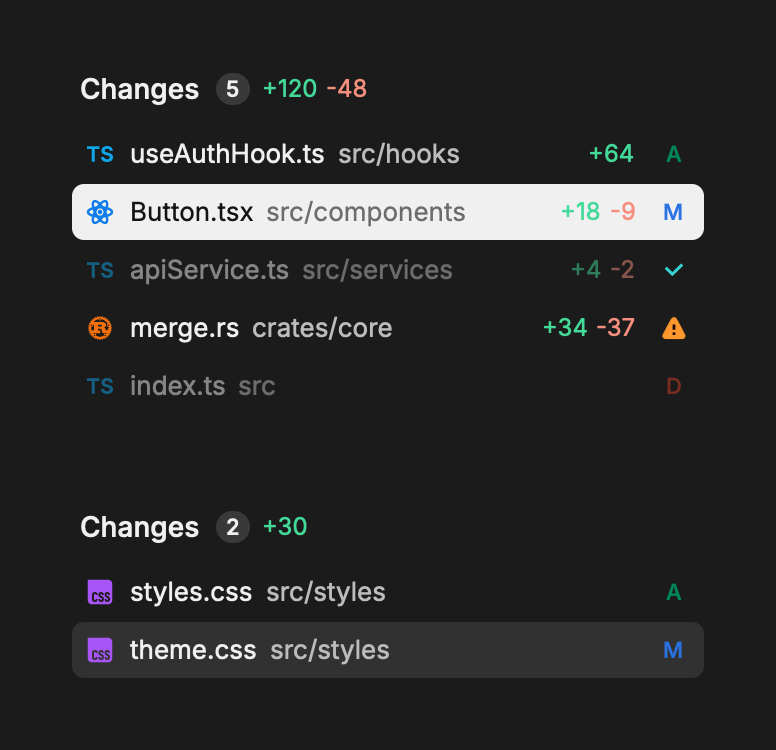
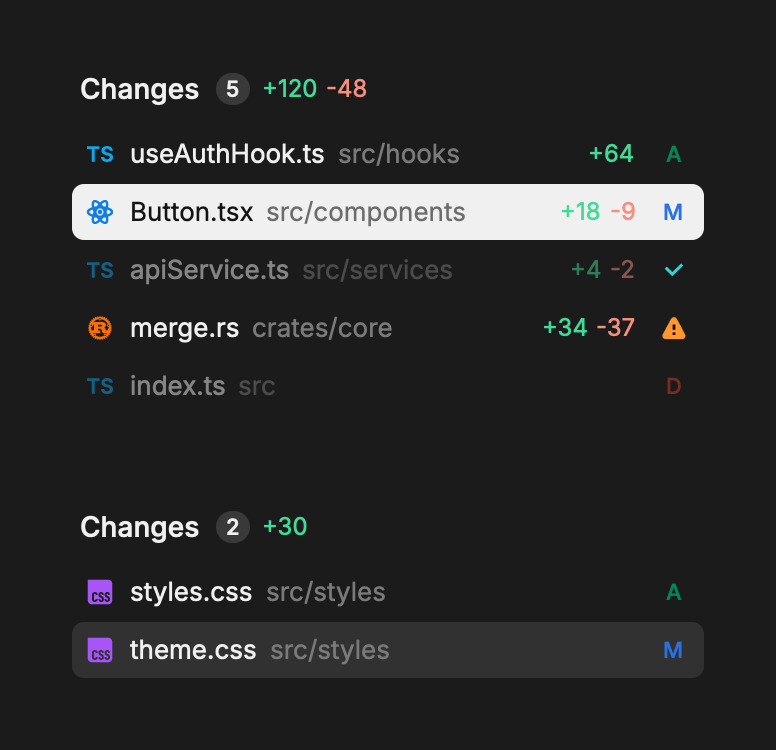
feat(but-ui-react): draw a file row's folder in the subtle foreground
The folder beside a file's name was the muted foreground, close enough
to the name that the two read as one. It's the subtle foreground now,
so the name reads first and the folder only says where it is, in
React's FileListItem, GPUI's, the GPUI app's file list and Figma. A
solid selection keeps the inverted muted colour. In light the folder
is 3.5:1 on the panel, as breadcrumbs already are.

diff --git a/packages/but-ui-react/src/FileList.module.css b/packages/but-ui-react/src/FileList.module.css
@@ -380,8 +380,9 @@
 	white-space: nowrap;
 }
 
+/* Subtle, so the name reads first and the folder only says where it is. */
 .directory {
-	color: var(--but-muted-foreground);
+	color: var(--but-subtle-foreground);
 }
 
 .directoryTrail {

diff --git a/crates/but-gpui/src/detail/file_list.rs b/crates/but-gpui/src/detail/file_list.rs
@@ -1643,6 +1643,11 @@ impl Detail {
             true => theme.muted_on_solid,
             false => theme.text_2,
         };
+        // The folder in subtle, so the name reads first, as but-ui-react's FileListItem draws it.
+        let folder = match solid {
+            true => theme.muted_on_solid,
+            false => theme.text_3,
+        };
         // In a tree a file sits under its directory, which names its path.
         let dir = if extras.depth.is_some() { "" } else { dir };
         // While composing, the checkbox takes the icon's place once it's checked, or while
@@ -1751,7 +1756,7 @@ impl Detail {
                             .overflow_hidden()
                             .whitespace_nowrap())
                         .text_ellipsis_middle()
-                        .text_color(muted)
+                        .text_color(folder)
                         .when(!dir.is_empty(), |el| {
                             el.child(matched(dir.to_owned(), dir_found))
                         }),

diff --git a/crates/but-ui-gpui/src/file_list.rs b/crates/but-ui-gpui/src/file_list.rs
@@ -455,7 +455,12 @@ impl RenderOnce for FileListItem {
                 true => format!("{directory}/"),
                 false => directory.to_string(),
             };
-            truncated(text).flex_shrink(1000.).text_color(muted)
+            // Subtle, so the name reads first; on the solid ground, the inverted muted colour.
+            let color = match solid {
+                true => muted,
+                false => theme.text_3,
+            };
+            truncated(text).flex_shrink(1000.).text_color(color)
         });
         let name = truncated(self.name.to_string()).flex_shrink(1.);
         let label = faded(
